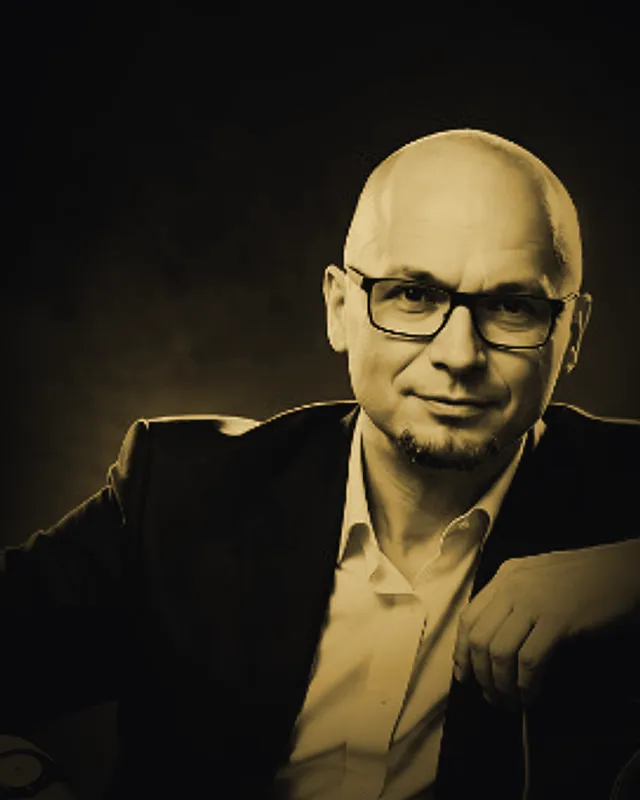
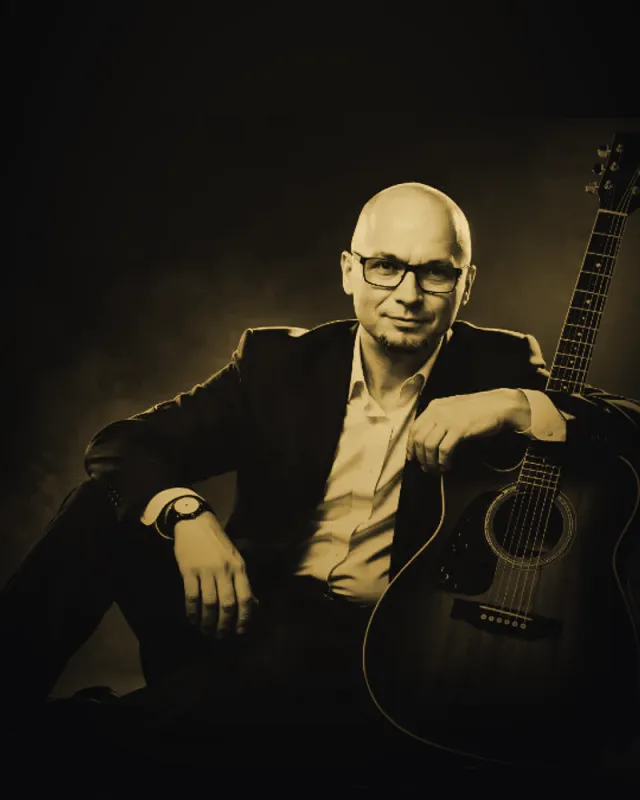
fix(wizytowka): Cezary jeszcze bliżej; zmienione karty pod nowymi nazwami (-v2), żeby ominąć pamięć Cloudflare
Na prośbę L0: twarz Cezarego wielkości jak pozostałe. Pliki bez -v2 zostają z treścią z produkcji.

diff --git a/wizytowka.html b/wizytowka.html
@@ -590,7 +590,7 @@ footer { background: var(--accent); color: var(--accent-ink); padding: 0 var(--m
         <p>Świadectwo i bezpłatna Biblia UBG.</p>
       </a>
       <a class="kacik-card rise" style="--i:2" href="/CezaryRogowski" data-track="kacik_cezary" data-place="kacik">
-        <div class="kacik-pic"><img src="/wizytowka/img/karta-cezary.webp" width="640" height="800" alt="Cezary Rogowski z gitarą akustyczną" loading="lazy"></div>
+        <div class="kacik-pic"><img src="/wizytowka/img/karta-cezary-v2.webp" width="640" height="800" alt="Cezary Rogowski z gitarą akustyczną" loading="lazy"></div>
         <span class="kacik-slug">/CezaryRogowski</span>
         <h3>Cezary Rogowski</h3>
         <p>Muzyka, Słowo i misja Christian Culture.</p>
@@ -608,13 +608,13 @@ footer { background: var(--accent); color: var(--accent-ink); padding: 0 var(--m
         <p>Paweł Murawski: ciało, dusza i duch.</p>
       </a>
       <a class="kacik-card rise" style="--i:5" href="/herbatka" data-track="kacik_herbatka" data-place="kacik">
-        <div class="kacik-pic"><img src="/wizytowka/img/karta-herbatka.webp" width="640" height="800" alt="Uśmiechnięta kobieta z filiżanką herbaty w przytulnej herbaciarni" loading="lazy"></div>
+        <div class="kacik-pic"><img src="/wizytowka/img/karta-herbatka-v2.webp" width="640" height="800" alt="Uśmiechnięta kobieta z filiżanką herbaty w przytulnej herbaciarni" loading="lazy"></div>
         <span class="kacik-slug">/herbatka</span>
         <h3>Herbatka między słowami</h3>
         <p>Klimatyczna herbaciarnia i rozmowy.</p>
       </a>
       <a class="kacik-card rise" style="--i:6" href="/premier-heatfix" data-track="kacik_heatfix" data-place="kacik">
-        <div class="kacik-pic"><img src="/wizytowka/img/karta-premier.webp" width="640" height="800" alt="Hydraulik z kluczem nastawnym przy instalacji grzewczej" loading="lazy"></div>
+        <div class="kacik-pic"><img src="/wizytowka/img/karta-premier-v2.webp" width="640" height="800" alt="Hydraulik z kluczem nastawnym przy instalacji grzewczej" loading="lazy"></div>
         <span class="kacik-slug">/premier-heatfix</span>
         <h3>Premier HeatFix</h3>
         <p>Mariusz: profesjonalne instalacje i serwis.</p>

diff --git a/wizytowka/index.html b/wizytowka/index.html
@@ -590,7 +590,7 @@ footer { background: var(--accent); color: var(--accent-ink); padding: 0 var(--m
         <p>Świadectwo i bezpłatna Biblia UBG.</p>
       </a>
       <a class="kacik-card rise" style="--i:2" href="/CezaryRogowski" data-track="kacik_cezary" data-place="kacik">
-        <div class="kacik-pic"><img src="/wizytowka/img/karta-cezary.webp" width="640" height="800" alt="Cezary Rogowski z gitarą akustyczną" loading="lazy"></div>
+        <div class="kacik-pic"><img src="/wizytowka/img/karta-cezary-v2.webp" width="640" height="800" alt="Cezary Rogowski z gitarą akustyczną" loading="lazy"></div>
         <span class="kacik-slug">/CezaryRogowski</span>
         <h3>Cezary Rogowski</h3>
         <p>Muzyka, Słowo i misja Christian Culture.</p>
@@ -608,13 +608,13 @@ footer { background: var(--accent); color: var(--accent-ink); padding: 0 var(--m
         <p>Paweł Murawski: ciało, dusza i duch.</p>
       </a>
       <a class="kacik-card rise" style="--i:5" href="/herbatka" data-track="kacik_herbatka" data-place="kacik">
-        <div class="kacik-pic"><img src="/wizytowka/img/karta-herbatka.webp" width="640" height="800" alt="Uśmiechnięta kobieta z filiżanką herbaty w przytulnej herbaciarni" loading="lazy"></div>
+        <div class="kacik-pic"><img src="/wizytowka/img/karta-herbatka-v2.webp" width="640" height="800" alt="Uśmiechnięta kobieta z filiżanką herbaty w przytulnej herbaciarni" loading="lazy"></div>
         <span class="kacik-slug">/herbatka</span>
         <h3>Herbatka między słowami</h3>
         <p>Klimatyczna herbaciarnia i rozmowy.</p>
       </a>
       <a class="kacik-card rise" style="--i:6" href="/premier-heatfix" data-track="kacik_heatfix" data-place="kacik">
-        <div class="kacik-pic"><img src="/wizytowka/img/karta-premier.webp" width="640" height="800" alt="Hydraulik z kluczem nastawnym przy instalacji grzewczej" loading="lazy"></div>
+        <div class="kacik-pic"><img src="/wizytowka/img/karta-premier-v2.webp" width="640" height="800" alt="Hydraulik z kluczem nastawnym przy instalacji grzewczej" loading="lazy"></div>
         <span class="kacik-slug">/premier-heatfix</span>
         <h3>Premier HeatFix</h3>
         <p>Mariusz: profesjonalne instalacje i serwis.</p>
